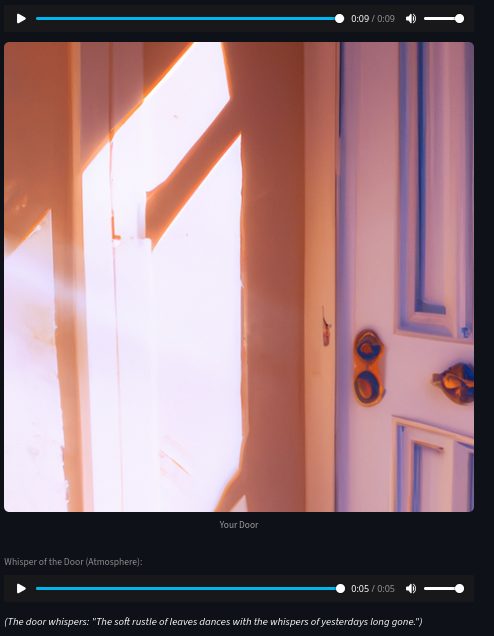
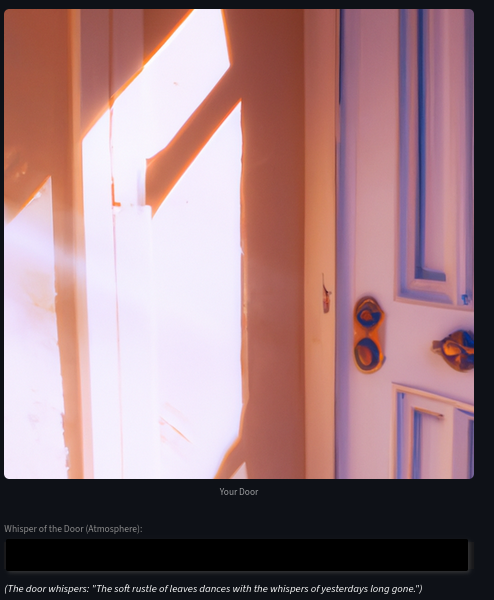
docs: update cropped images and change audio embeds to markdown links

diff --git a/README.md b/README.md
@@ -37,11 +37,11 @@ Below are examples of the artwork generated by the system when a user knocks on 
 ### The Poem & Emotion Resonance
 ![Generated Poem](Poem.png)
 
-*Listen to the Voice of the Wanderer:*
-<video controls src="poem.mp3"></video>
+*Listen to the Voice of the Wanderer:*  
+[▶ Play poem.mp3](poem.mp3)
 
 ### The Visual Ambience & Doorway
 ![The Doorway](Ambiance.png)
 
-*Listen to the Whisper of the Door:*
-<video controls src="ambient.mp3"></video>
+*Listen to the Whisper of the Door:*  
+[▶ Play ambient.mp3](ambient.mp3)
